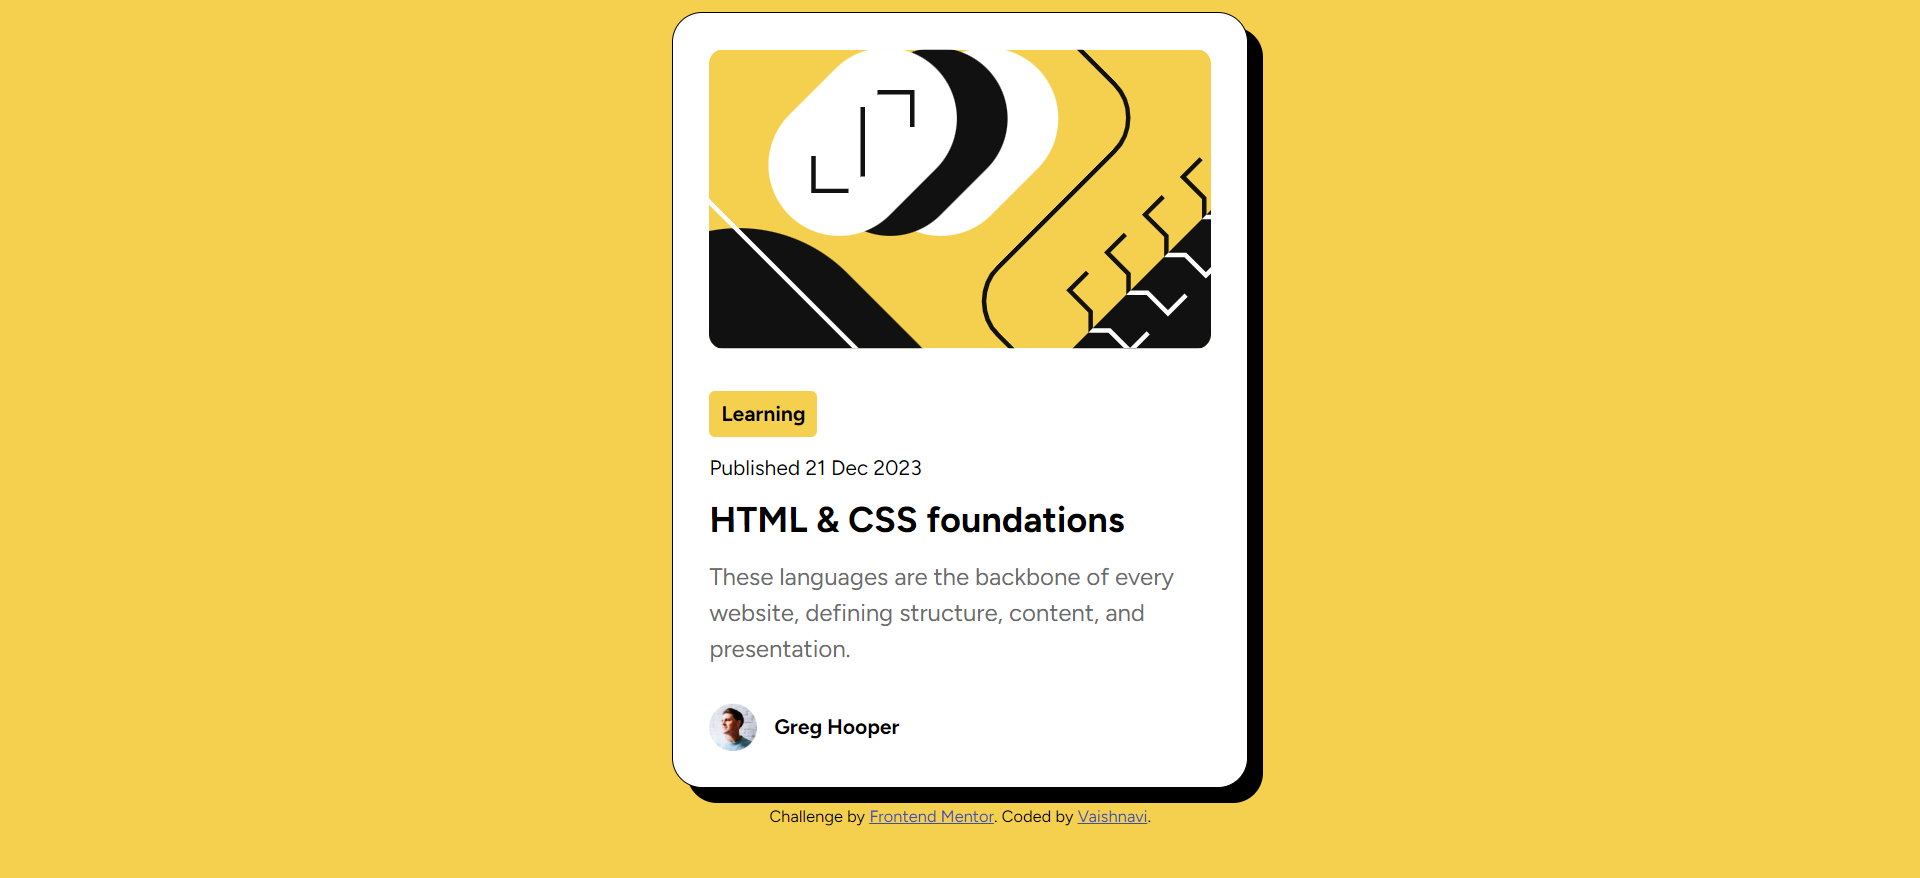
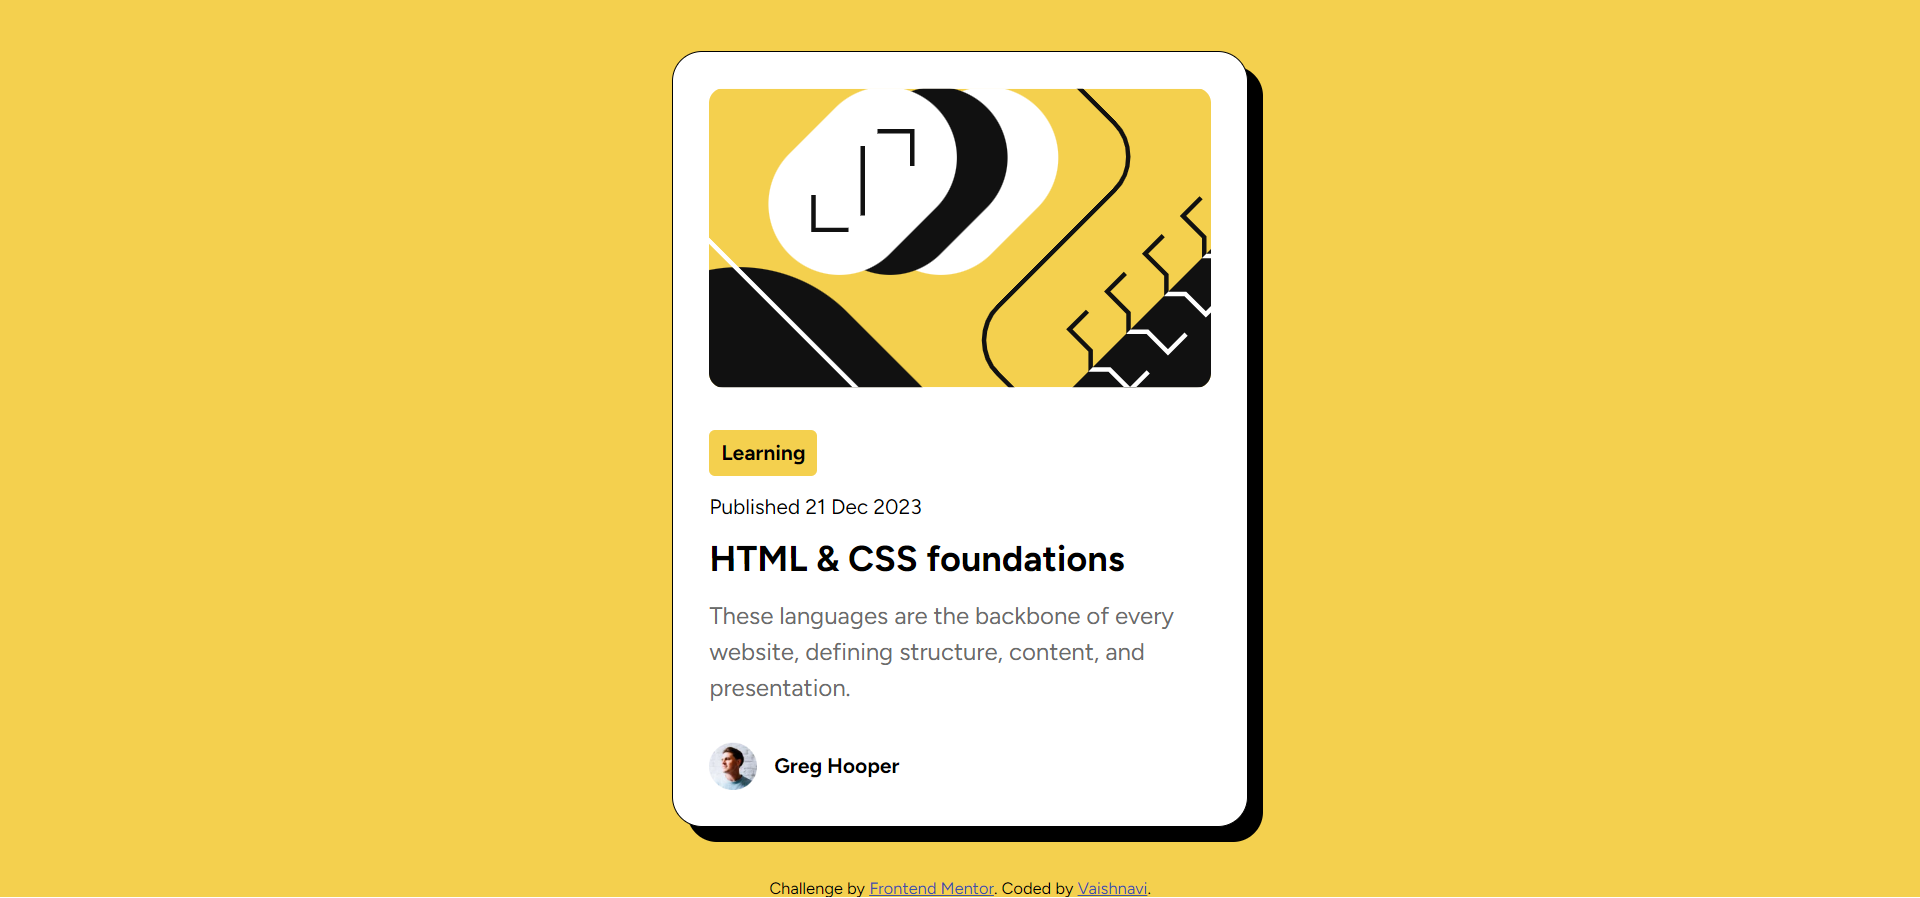
commit

Changed region(s): [[0.3438, 0.0, 0.6562, 0.9533], [0.375, 0.9841, 0.625, 1.0]]

diff --git a/blog-preview-card-main/index.html b/blog-preview-card-main/index.html
@@ -31,32 +31,37 @@
     </style>
   </head>
   <body>
-    <div class="mainBox">
-      <div class="blogImage">
-        <img src="./assets/images/illustration-article.svg" alt="Blog Image" />
-      </div>
-      <div class="content">
-        <div class="category">
-          <a href="#" title="Visit Learning Page">Learning</a>
+    <main>
+      <div class="mainBox">
+        <div class="blogImage">
+          <img
+            src="./assets/images/illustration-article.svg"
+            alt="Blog Image"
+          />
         </div>
-        <p class="publishDate">Published 21 Dec 2023</p>
-        <p class="title">
-          <a href="#" title="Visit HTML & CSS foundations Page"
-            >HTML & CSS foundations</a
-          >
-        </p>
-        <p class="description">
-          These languages are the backbone of every website, defining structure,
-          content, and presentation.
-        </p>
+        <div class="content">
+          <div class="category">
+            <a href="#" title="Visit Learning Page">Learning</a>
+          </div>
+          <p class="publishDate">Published 21 Dec 2023</p>
+          <p class="title">
+            <a href="#" title="Visit HTML & CSS foundations Page"
+              >HTML & CSS foundations</a
+            >
+          </p>
+          <p class="description">
+            These languages are the backbone of every website, defining
+            structure, content, and presentation.
+          </p>
+        </div>
+        <div class="author">
+          <img src="./assets/images/image-avatar.webp" alt="author image" />
+          <span>Greg Hooper</span>
+        </div>
       </div>
-      <div class="author">
-        <img src="./assets/images/image-avatar.webp" alt="author image" />
-        <span>Greg Hooper</span>
-      </div>
-    </div>
+    </main>
 
-    <div class="attribution">
+    <footer class="attribution">
       Challenge by
       <a
         href="https://www.frontendmentor.io/challenges"
@@ -70,6 +75,6 @@
         rel="noopener noreferrer"
         >Vaishnavi</a
       >.
-    </div>
+    </footer>
   </body>
 </html>

diff --git a/blog-preview-card-main/style.css b/blog-preview-card-main/style.css
@@ -3,6 +3,9 @@ body {
   font-family: "Figtree", sans-serif;
   height: 100%;
   margin: 0;
+}
+
+main {
   display: flex;
   flex-direction: column;
   justify-content: center;
@@ -96,6 +99,6 @@ body {
   vertical-align: middle;
 }
 
-.attribution {
-  margin: 12px;
+footer {
+  margin: 0px;
 }

diff --git a/blog-preview-card-main/README.md b/blog-preview-card-main/README.md
@@ -1,93 +1,111 @@
-# Frontend Mentor - Blog preview card
+# Frontend Mentor - Blog Preview Card Solution
 
-![Design preview for the Blog preview card coding challenge](./preview.jpg)
+This is a solution to the [Blog preview card challenge on Frontend Mentor](https://www.frontendmentor.io/challenges/blog-preview-card-ckPaj01IcS). Frontend Mentor challenges help you improve your coding skills by building realistic projects.
 
-## Welcome! 👋
+## Table of contents
 
-Thanks for checking out this front-end coding challenge.
+- [Overview](#overview)
+  - [The challenge](#the-challenge)
+  - [Screenshot](#screenshot)
+  - [Links](#links)
+- [My process](#my-process)
+  - [Built with](#built-with)
+  - [What I learned](#what-i-learned)
+  - [Continued development](#continued-development)
+  - [Useful resources](#useful-resources)
+- [Author](#author)
+- [Acknowledgments](#acknowledgments)
 
-[Frontend Mentor](https://www.frontendmentor.io) challenges help you improve your coding skills by building realistic projects.
+## Overview
 
-**To do this challenge, you need a basic understanding of HTML and CSS.**
+### The challenge
 
-## The challenge
-
-Your challenge is to build out this blog preview card and get it looking as close to the design as possible.
-
-You can use any tools you like to help you complete the challenge. So if you've got something you'd like to practice, feel free to give it a go.
-
-Your users should be able to:
+Users should be able to:
 
 - See hover and focus states for all interactive elements on the page
 
-Want some support on the challenge? [Join our community](https://www.frontendmentor.io/community) and ask questions in the **#help** channel.
+### Screenshot
 
-## Where to find everything
+![Blog Preview Card Screenshot](./assets/Frontend-Mentor-Blog-preview-card-solution.png)
 
-Your task is to build out the project to the designs inside the `/design` folder. You will find both a mobile and a desktop version of the design. 
+### Links
 
-The designs are in JPG static format. Using JPGs will mean that you'll need to use your best judgment for styles such as `font-size`, `padding` and `margin`. 
+- Solution URL: [View Solution](https://github.com/VaishsCode/frontend-mentor-challenges/tree/main/blog-preview-card-main)
+- Live Site URL: [View Live Site](https://vaishscode.github.io/frontend-mentor-challenges/blog-preview-card-main/)
 
-If you would like the design files (we provide Sketch & Figma versions) to inspect the design in more detail, you can [subscribe as a PRO member](https://www.frontendmentor.io/pro).
+## My process
 
-All the required assets for this project are in the `/assets` folder. The images are already exported for the correct screen size and optimized.
+### Built with
 
-We also include variable and static font files for the required fonts for this project. You can choose to either link to Google Fonts or use the local font files to host the fonts yourself. Note that we've removed the static font files for the font weights that aren't needed for this project.
+- Semantic HTML5 markup
+- CSS custom properties
+- Flexbox
+- Mobile-first workflow
+- [Styled Components](https://styled-components.com/) - For styles
 
-There is also a `style-guide.md` file containing the information you'll need, such as color palette and fonts.
+### What I learned
 
-## Building your project
+I learned how to better structure HTML and CSS for responsive design. In particular, I improved my understanding of Flexbox and how to use it effectively for layout management.
 
-Feel free to use any workflow that you feel comfortable with. Below is a suggested process, but do not feel like you need to follow these steps:
+```html
+<h1>Some HTML code I'm proud of</h1>
+<div class="mainBox">
+  <div class="blogImage">
+    <img src="./assets/images/illustration-article.svg" alt="Blog Image" />
+  </div>
+  <div class="content">
+    <!-- content here -->
+  </div>
+  <div class="author">
+    <img src="./assets/images/image-avatar.webp" alt="author image" />
+    <span>Greg Hooper</span>
+  </div>
+</div>
+```
 
-1. Initialize your project as a public repository on [GitHub](https://github.com/). Creating a repo will make it easier to share your code with the community if you need help. If you're not sure how to do this, [have a read-through of this Try Git resource](https://try.github.io/).
-2. Configure your repository to publish your code to a web address. This will also be useful if you need some help during a challenge as you can share the URL for your project with your repo URL. There are a number of ways to do this, and we provide some recommendations below.
-3. Look through the designs to start planning out how you'll tackle the project. This step is crucial to help you think ahead for CSS classes to create reusable styles.
-4. Before adding any styles, structure your content with HTML. Writing your HTML first can help focus your attention on creating well-structured content.
-5. Write out the base styles for your project, including general content styles, such as `font-family` and `font-size`.
-6. Start adding styles to the top of the page and work down. Only move on to the next section once you're happy you've completed the area you're working on.
+This code snippet shows how I organized the different sections of the card. I am proud of how I applied Flexbox to create a clean, structured layout.
 
-## Deploying your project
+```css
+.proud-of-this-css {
+  display: flex;
+  flex-direction: column;
+  justify-content: center;
+  align-items: center;
+  height: 100vh;
+}
+```
 
-As mentioned above, there are many ways to host your project for free. Our recommend hosts are:
+This CSS helped me center the content vertically and horizontally within the viewport, which was an essential part of making the layout look balanced on different screen sizes.
 
-- [GitHub Pages](https://pages.github.com/)
-- [Vercel](https://vercel.com/)
-- [Netlify](https://www.netlify.com/)
+### Continued Development
 
-You can host your site using one of these solutions or any of our other trusted providers. [Read more about our recommended and trusted hosts](https://medium.com/frontend-mentor/frontend-mentor-trusted-hosting-providers-bf000dfebe).
+In my future projects, I want to focus on improving a few important areas:
 
-## Create a custom `README.md`
+1. **CSS Improvement**: I am happy with how Flexbox is working for layouts, but I want to learn more about CSS Grid to handle more complex designs.
 
-We strongly recommend overwriting this `README.md` with a custom one. We've provided a template inside the [`README-template.md`](./README-template.md) file in this starter code.
+2. **Accessibility**: I will work on making my projects more user-friendly for everyone, especially people who use screen readers or keyboard shortcuts to navigate websites.
 
-The template provides a guide for what to add. A custom `README` will help you explain your project and reflect on your learnings. Please feel free to edit our template as much as you like.
+3. **Responsive Design**: Though I understand the basics of responsive design, I want to get better at using media queries, flexible typography, and responsive images to make my projects work well on all devices.
 
-Once you've added your information to the template, delete this file and rename the `README-template.md` file to `README.md`. That will make it show up as your repository's README file.
+4. **JavaScript Integration**: For now, I have focused on HTML and CSS. In the future, I want to add JavaScript to make my websites more interactive.
 
-## Submitting your solution
+5. **Reusable Code**: I want to learn more about creating reusable components in HTML and CSS and I also plan to learn frameworks like React to make web applications.
 
-Submit your solution on the platform for the rest of the community to see. Follow our ["Complete guide to submitting solutions"](https://medium.com/frontend-mentor/a-complete-guide-to-submitting-solutions-on-frontend-mentor-ac6384162248) for tips on how to do this.
+6. **Figma for Frontend**: I have learned the basics of using Figma to design for the web. I will keep improving my skills to make sure I can turn Figma designs into responsive and accurate websites.
 
-Remember, if you're looking for feedback on your solution, be sure to ask questions when submitting it. The more specific and detailed you are with your questions, the higher the chance you'll get valuable feedback from the community.
+### Useful Resources
 
-## Sharing your solution
+- [MDN Web Docs](https://developer.mozilla.org/en-US/) - This is my main resource for learning HTML and CSS. It helped me understand many CSS properties and how to structure HTML properly.
 
-There are multiple places you can share your solution:
+- [CSS Tricks](https://css-tricks.com/) - This site gave me some great tips on using Flexbox and making websites responsive. I will continue using it as I learn more.
 
-1. Share your solution page in the **#finished-projects** channel of our [community](https://www.frontendmentor.io/community). 
-2. Tweet [@frontendmentor](https://twitter.com/frontendmentor) and mention **@frontendmentor**, including the repo and live URLs in the tweet. We'd love to take a look at what you've built and help share it around.
-3. Share your solution on other social channels like LinkedIn.
-4. Blog about your experience building your project. Writing about your workflow, technical choices, and talking through your code is a brilliant way to reinforce what you've learned. Great platforms to write on are [dev.to](https://dev.to/), [Hashnode](https://hashnode.com/), and [CodeNewbie](https://community.codenewbie.org/).
+- [Frontend Mentor Blog Card Tutorial](https://www.frontendmentor.io/) - This challenge helped me practice designing a blog card layout and learn new design ideas.
 
-We provide templates to help you share your solution once you've submitted it on the platform. Please do edit them and include specific questions when you're looking for feedback. 
+## Author
 
-The more specific you are with your questions the more likely it is that another member of the community will give you feedback.
+- GitHub - [VaishsCode](https://github.com/VaishsCode)
+- Frontend Mentor - [@VaishsCode](https://www.frontendmentor.io/profile/VaishsCode)
 
-## Got feedback for us?
+## Acknowledgments
 
-We love receiving feedback! We're always looking to improve our challenges and our platform. So if you have anything you'd like to mention, please email hi[at]frontendmentor[dot]io.
-
-This challenge is completely free. Please share it with anyone who will find it useful for practice.
-
-**Have fun building!** 🚀
+I would like to thank the Frontend Mentor community for providing such a great platform to practice real-world projects and learn from other people's work. Special thanks to [Frontend Mentor](https://www.frontendmentor.io/) for the challenges that help improve my web development skills.
